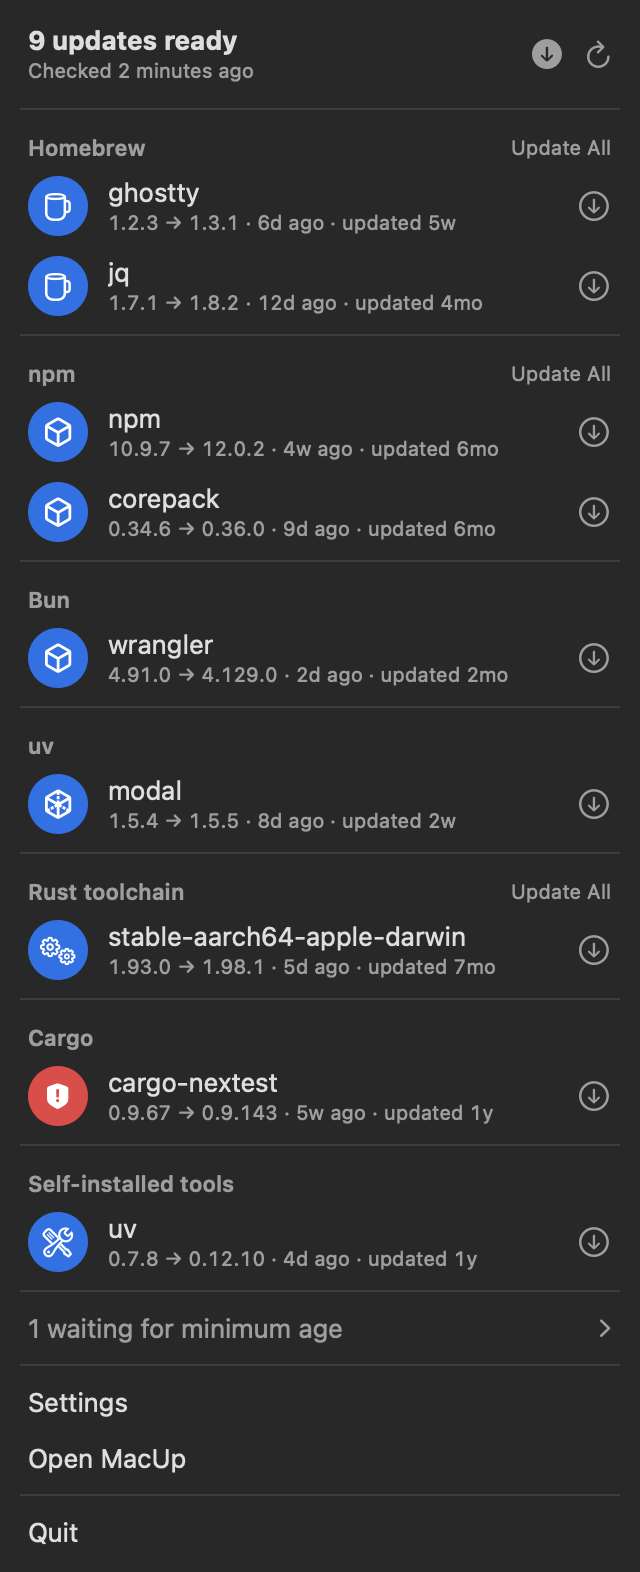
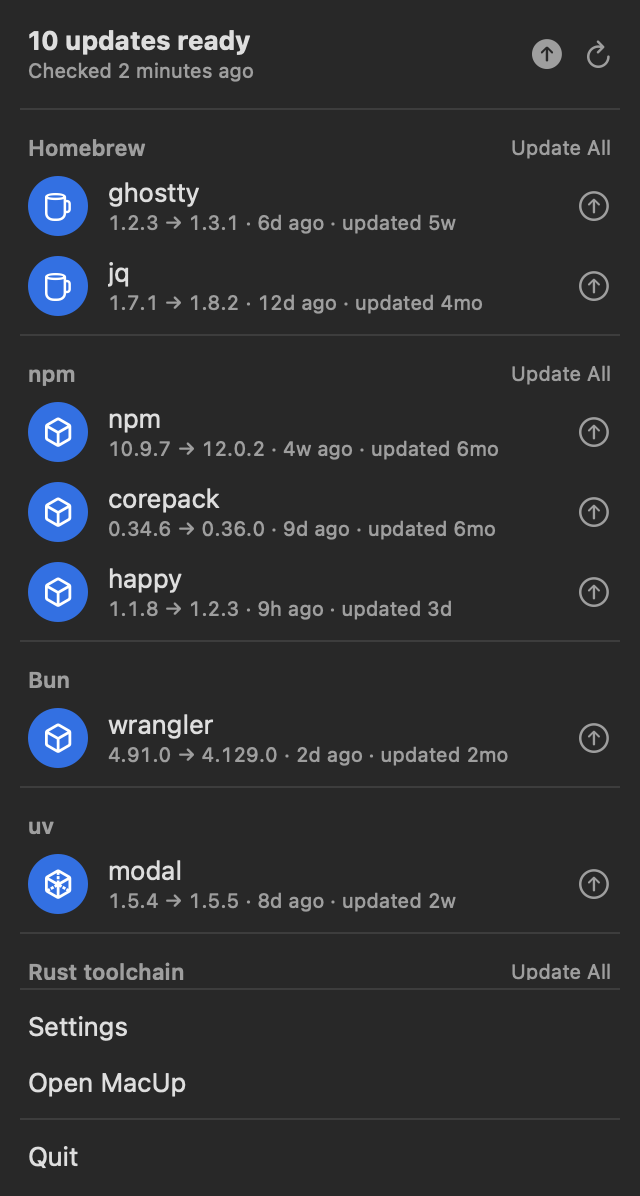
feat: up arrows for update actions everywhere

diff --git a/Macup/Sources/MenuBarPanel.swift b/Macup/Sources/MenuBarPanel.swift
@@ -39,7 +39,7 @@ struct MenuBarPanel: View {
             HStack(spacing: 10) {
                 if store.updatableCount > 0 {
                     Button { Task { await store.upgradeAllEligible() } } label: {
-                        Image(systemName: "arrow.down.circle.fill").font(.title3)
+                        Image(systemName: "arrow.up.circle.fill").font(.title3)
                     }
                     .buttonStyle(.borderless).disabled(store.isUpgradingAnything)
                     .help(store.isUpgradingAnything ? "Updating…" : "Update all \(store.updatableCount)")
@@ -83,7 +83,7 @@ struct MenuBarPanel: View {
                     }
                     Spacer()
                     if store.isUpgrading(cask) { ProgressView().controlSize(.small) }
-                    else { Image(systemName: "arrow.down.circle").font(.title3).foregroundStyle(.secondary) }
+                    else { Image(systemName: "arrow.up.circle").font(.title3).foregroundStyle(.secondary) }
                 }
                 .padding(.horizontal, 9).padding(.vertical, 3)
             }
@@ -252,7 +252,7 @@ struct PanelRow: View {
             .buttonStyle(.borderless).help("Update failed:\n\(failure)\n\nClick to see the output. Right-click to retry.")
         } else if !dimmed {
             Button { Task { await store.upgrade(pkg) } } label: {
-                Image(systemName: pkg.manager.opensExternally ? "arrow.up.forward.app" : "arrow.down.circle").font(.title3)
+                Image(systemName: pkg.manager.opensExternally ? "arrow.up.forward.app" : "arrow.up.circle").font(.title3)
             }
             .buttonStyle(.borderless)
             .help(pkg.manager.opensExternally ? "Open Software Update in System Settings" : "Update \(pkg.name)")

diff --git a/site/components/desktop/panel.tsx b/site/components/desktop/panel.tsx
@@ -1,4 +1,4 @@
-import { ArrowDownCircle, ChevronRight, CircleArrowDown, RotateCw } from "lucide-react";
+import { ArrowUpCircle, ChevronRight, CircleArrowUp, RotateCw } from "lucide-react";
 import { demo } from "@/lib/demo";
 
 
@@ -16,7 +16,7 @@ export function Panel({ compact = false, className = "" }: { compact?: boolean; 
           <div className="mt-px text-[11px] text-muted-foreground">{demo.checked}</div>
         </div>
         <div className="mr-0.5 flex items-center gap-2.5 text-foreground/70">
-          <CircleArrowDown size={20} strokeWidth={1.75} className="fill-foreground/70 text-background" aria-label={`Update all ${demo.count}`} />
+          <CircleArrowUp size={20} strokeWidth={1.75} className="fill-foreground/70 text-background" aria-label={`Update all ${demo.count}`} />
           <RotateCw size={16} strokeWidth={1.75} aria-hidden />
         </div>
       </div>
@@ -38,7 +38,7 @@ export function Panel({ compact = false, className = "" }: { compact?: boolean; 
                   {r.from} → {r.to} · {r.age} · updated {r.updated}
                 </div>
               </div>
-              <ArrowDownCircle size={20} strokeWidth={1.5} className="shrink-0 text-foreground/70" aria-hidden />
+              <ArrowUpCircle size={20} strokeWidth={1.5} className="shrink-0 text-foreground/70" aria-hidden />
             </div>
           ))}
         </div>
